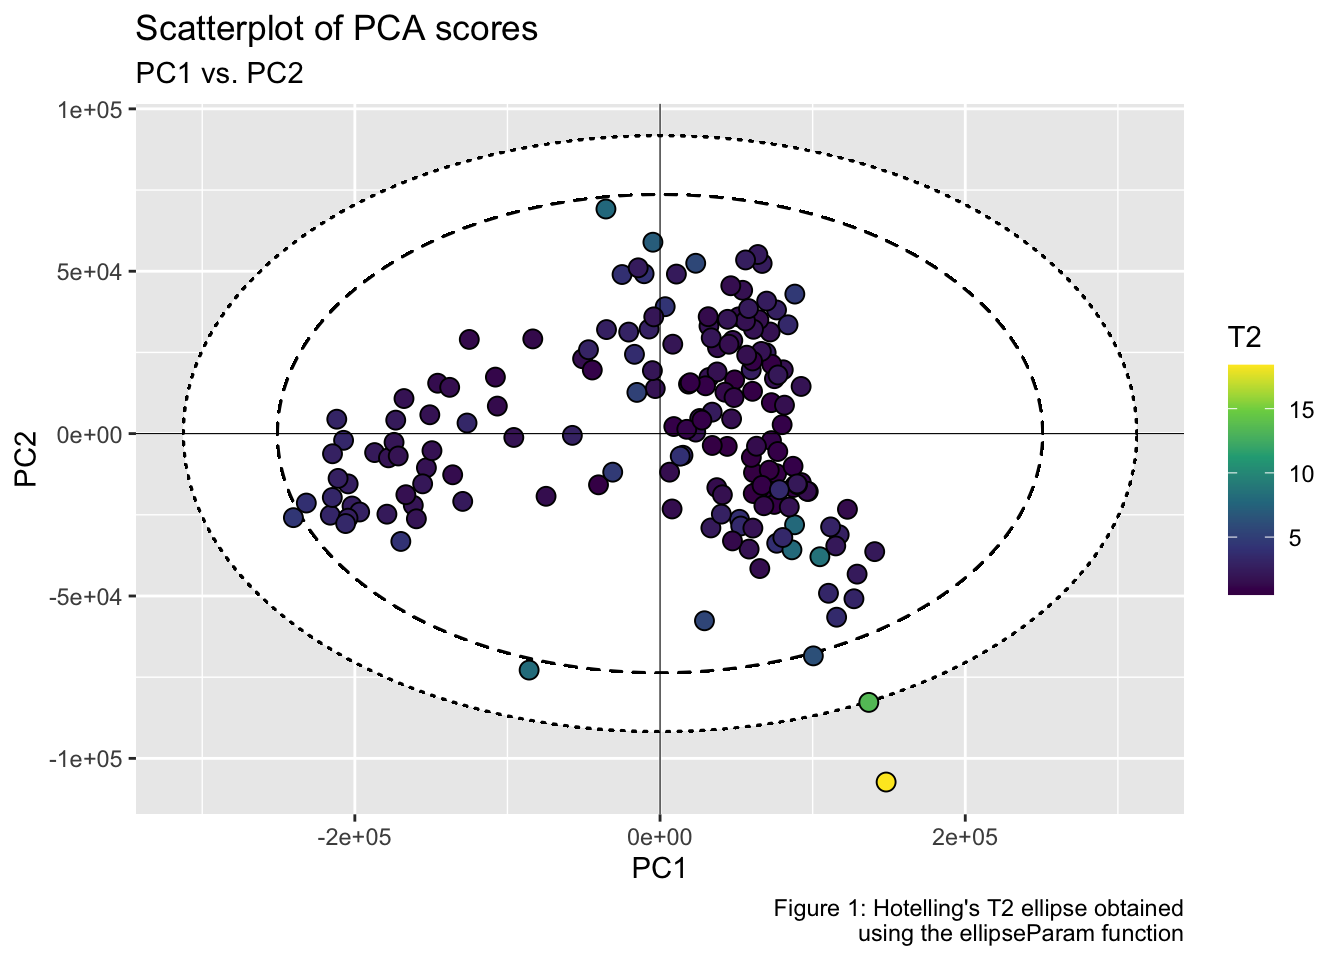
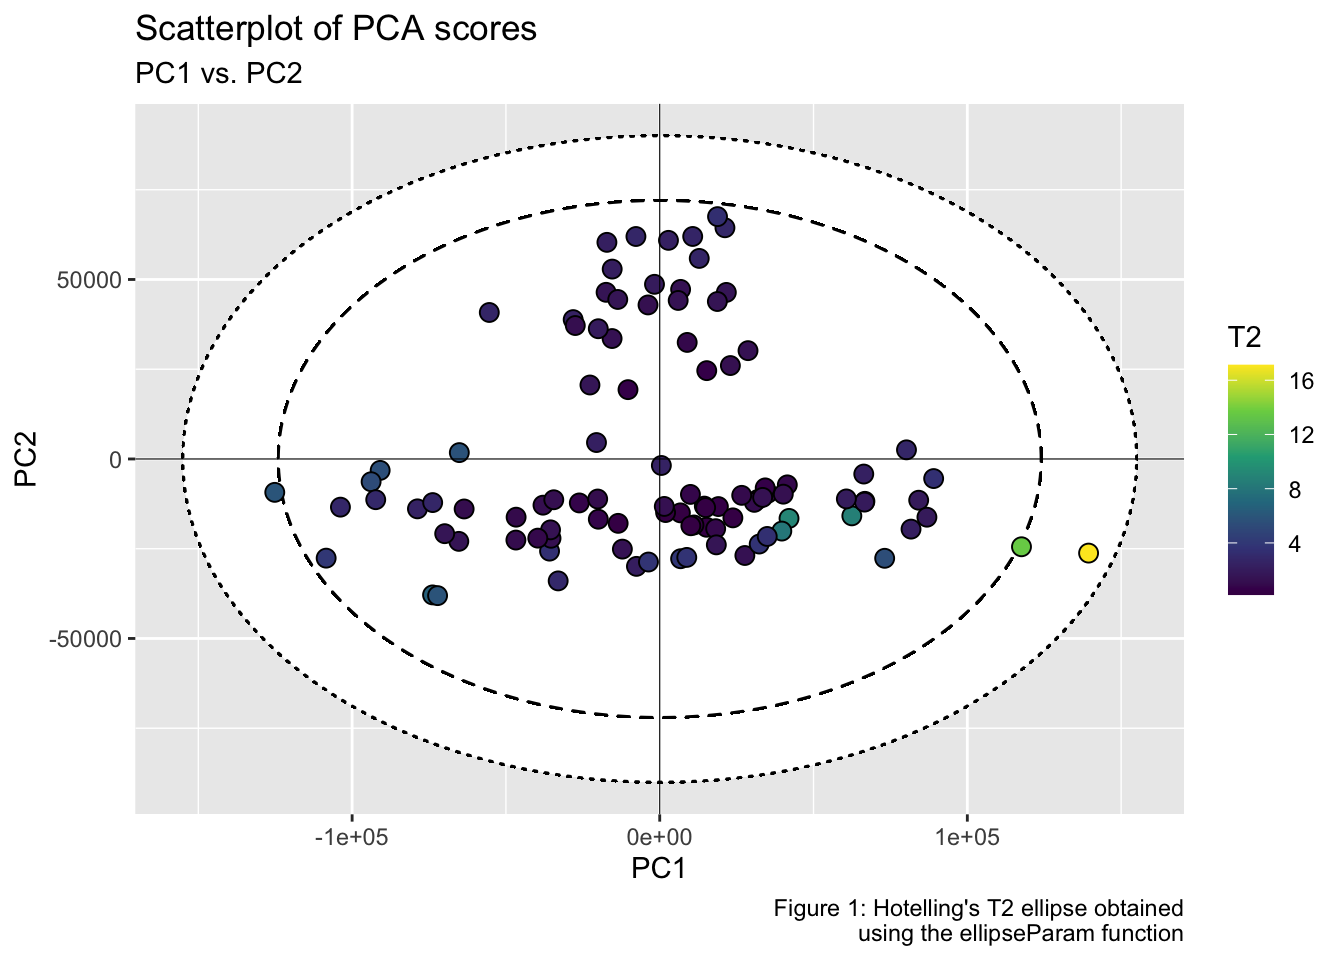
Updates

diff --git a/README.md b/README.md
@@ -79,20 +79,20 @@ pca_scores <- pca_mod %>%
   pluck("ind", "coord") %>%
   as_tibble() %>%
   print()
-#> # A tibble: 171 × 5
-#>      Dim.1   Dim.2   Dim.3   Dim.4    Dim.5
-#>      <dbl>   <dbl>   <dbl>   <dbl>    <dbl>
-#>  1  15021.  -6664. -23800.  -2683. -30125. 
-#>  2  37205. -16640. -14882.   8566. -16900. 
-#>  3 110366. -49158.  37954. -11079.   2600. 
-#>  4  10708.  49123.  18879.  -5441. -14921. 
-#>  5 117379. -31128. -16638. -20459. -14914. 
-#>  6  80742.  19654.  34261. -12216.    -38.0
-#>  7  48867.  16538.   5662. -11706.   5465. 
-#>  8 122792. -23301. -13664.  -8704.   2929. 
-#>  9  97123. -17820. -13429.  -5519.   6973. 
-#> 10  61216. -12005. -16953.   1905.   2814. 
-#> # … with 161 more rows
+#> # A tibble: 100 × 5
+#>      Dim.1   Dim.2   Dim.3   Dim.4   Dim.5
+#>      <dbl>   <dbl>   <dbl>   <dbl>   <dbl>
+#>  1 -35818. -25670.  -1410. -18987. -27824.
+#>  2 -12142. -25112. -10597.  -6783. -17026.
+#>  3  80218.   2544. -27594. -19345.   3397.
+#>  4 -55409.  40806. -14685. -11184. -15158.
+#>  5  66703. -11798.  26979.   6451. -18152.
+#>  6  21652.  46396. -11037.    467.  -3676.
+#>  7 -10316.  19311.   -545. -13258.   3631.
+#>  8  66331.  -4200.  21980.  23341.  -1542.
+#>  9  41474.  -7211.  13901.  11204.   3586.
+#> 10   6716. -15011.   3620.   3784.    241.
+#> # … with 90 more rows
 ```
 
 **Step 5.** Run `ellipseParam()` for the first two principal components
@@ -108,15 +108,15 @@ res_2PCs <- ellipseParam(data = pca_scores, k = 2, pcx = 1, pcy = 2)
 ``` r
 str(res_2PCs)
 #> List of 4
-#>  $ Tsquare     : tibble [171 × 1] (S3: tbl_df/tbl/data.frame)
-#>   ..$ value: num [1:171] 3.29 1.39 3.27 2.37 2.77 ...
+#>  $ Tsquare     : tibble [100 × 1] (S3: tbl_df/tbl/data.frame)
+#>   ..$ value: num [1:100] 3.46 1.4 2.74 2.68 2.64 ...
 #>  $ Ellipse     : tibble [1 × 4] (S3: tbl_df/tbl/data.frame)
-#>   ..$ a.99pct: num 312205
-#>   ..$ b.99pct: num 91666
-#>   ..$ a.95pct: num 250602
-#>   ..$ b.95pct: num 73579
-#>  $ cutoff.99pct: num 9.52
-#>  $ cutoff.95pct: num 6.14
+#>   ..$ a.99pct: num 154988
+#>   ..$ b.99pct: num 89990
+#>   ..$ a.95pct: num 123969
+#>   ..$ b.95pct: num 71980
+#>  $ cutoff.99pct: num 9.76
+#>  $ cutoff.95pct: num 6.24
 ```
 
 -   Semi-axes of the ellipse at 99% confidence level.
@@ -152,8 +152,8 @@ coord_2PCs <- ellipseCoord(data = pca_scores, pcx = 1, pcy = 2, conf.limit = 0.9
 ``` r
 str(coord_2PCs)
 #> tibble [500 × 2] (S3: tbl_df/tbl/data.frame)
-#>  $ x: num [1:500] 250602 250582 250523 250423 250284 ...
-#>  $ y: num [1:500] 9.40e-12 9.26e+02 1.85e+03 2.78e+03 3.70e+03 ...
+#>  $ x: num [1:500] 123969 123959 123930 123881 123812 ...
+#>  $ y: num [1:500] -5.74e-12 9.06e+02 1.81e+03 2.72e+03 3.62e+03 ...
 ```
 
 **Step 6.** Plot PC1 *vs.* PC2 scatterplot, with the two corresponding
@@ -173,7 +173,7 @@ pca_scores %>%
   theme_grey()
 ```
 
-<img src="man/figures/README-unnamed-chunk-14-1.png" width="90%" height="90%" />
+<img src="man/figures/README-unnamed-chunk-15-1.png" width="90%" height="90%" />
 
 ``` r
 ggplot() +
@@ -186,7 +186,7 @@ ggplot() +
   theme_grey()
 ```
 
-<img src="man/figures/README-unnamed-chunk-15-1.png" width="90%" height="90%" />
+<img src="man/figures/README-unnamed-chunk-16-1.png" width="90%" height="90%" />
 
 **Note:** The easiest way to analyze and interpret Hotelling’s
 T<sup>2</sup> for more than two principal components, is to plot
@@ -202,10 +202,10 @@ res_3PCs <- ellipseParam(data = pca_scores, k = 3)
 ``` r
 str(res_3PCs)
 #> List of 3
-#>  $ Tsquare     : tibble [171 × 1] (S3: tbl_df/tbl/data.frame)
-#>   ..$ value: num [1:171] 2.179 0.922 2.167 1.573 1.836 ...
-#>  $ cutoff.99pct: num 11.8
-#>  $ cutoff.95pct: num 8.07
+#>  $ Tsquare     : tibble [100 × 1] (S3: tbl_df/tbl/data.frame)
+#>   ..$ value: num [1:100] 2.283 0.921 1.806 1.767 1.743 ...
+#>  $ cutoff.99pct: num 12.2
+#>  $ cutoff.95pct: num 8.26
 ```
 
 ``` r
@@ -225,4 +225,4 @@ tibble(
   theme_bw()
 ```
 
-<img src="man/figures/README-unnamed-chunk-18-1.png" width="90%" height="90%" />
+<img src="man/figures/README-unnamed-chunk-19-1.png" width="90%" height="90%" />
